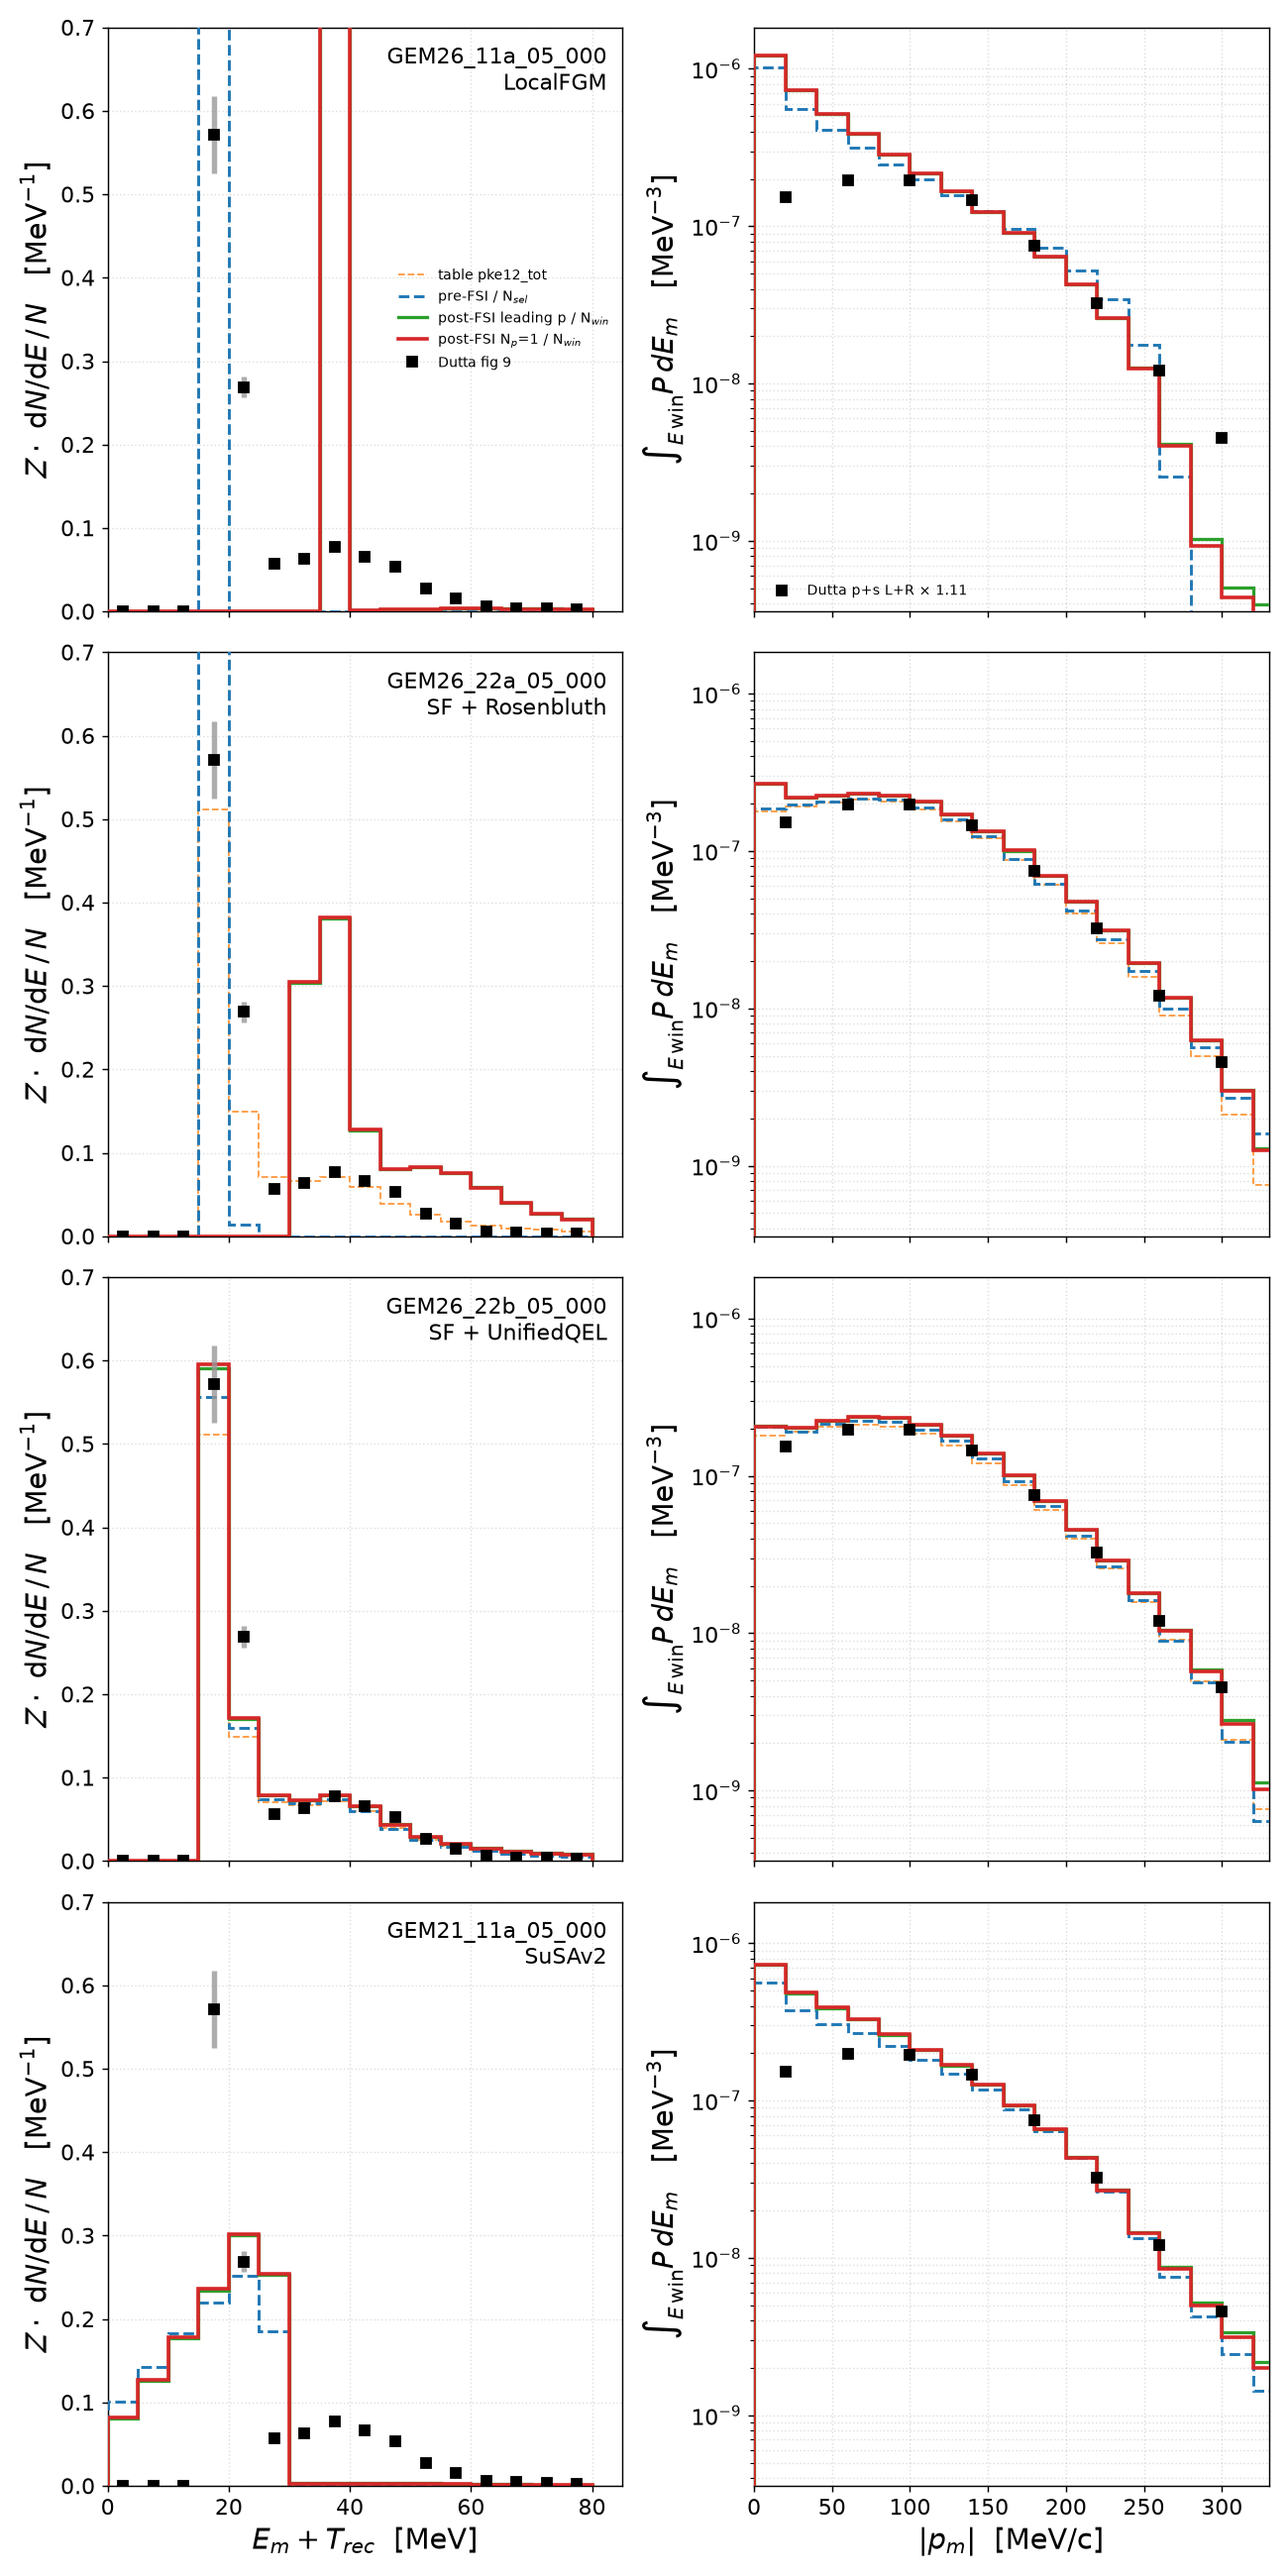
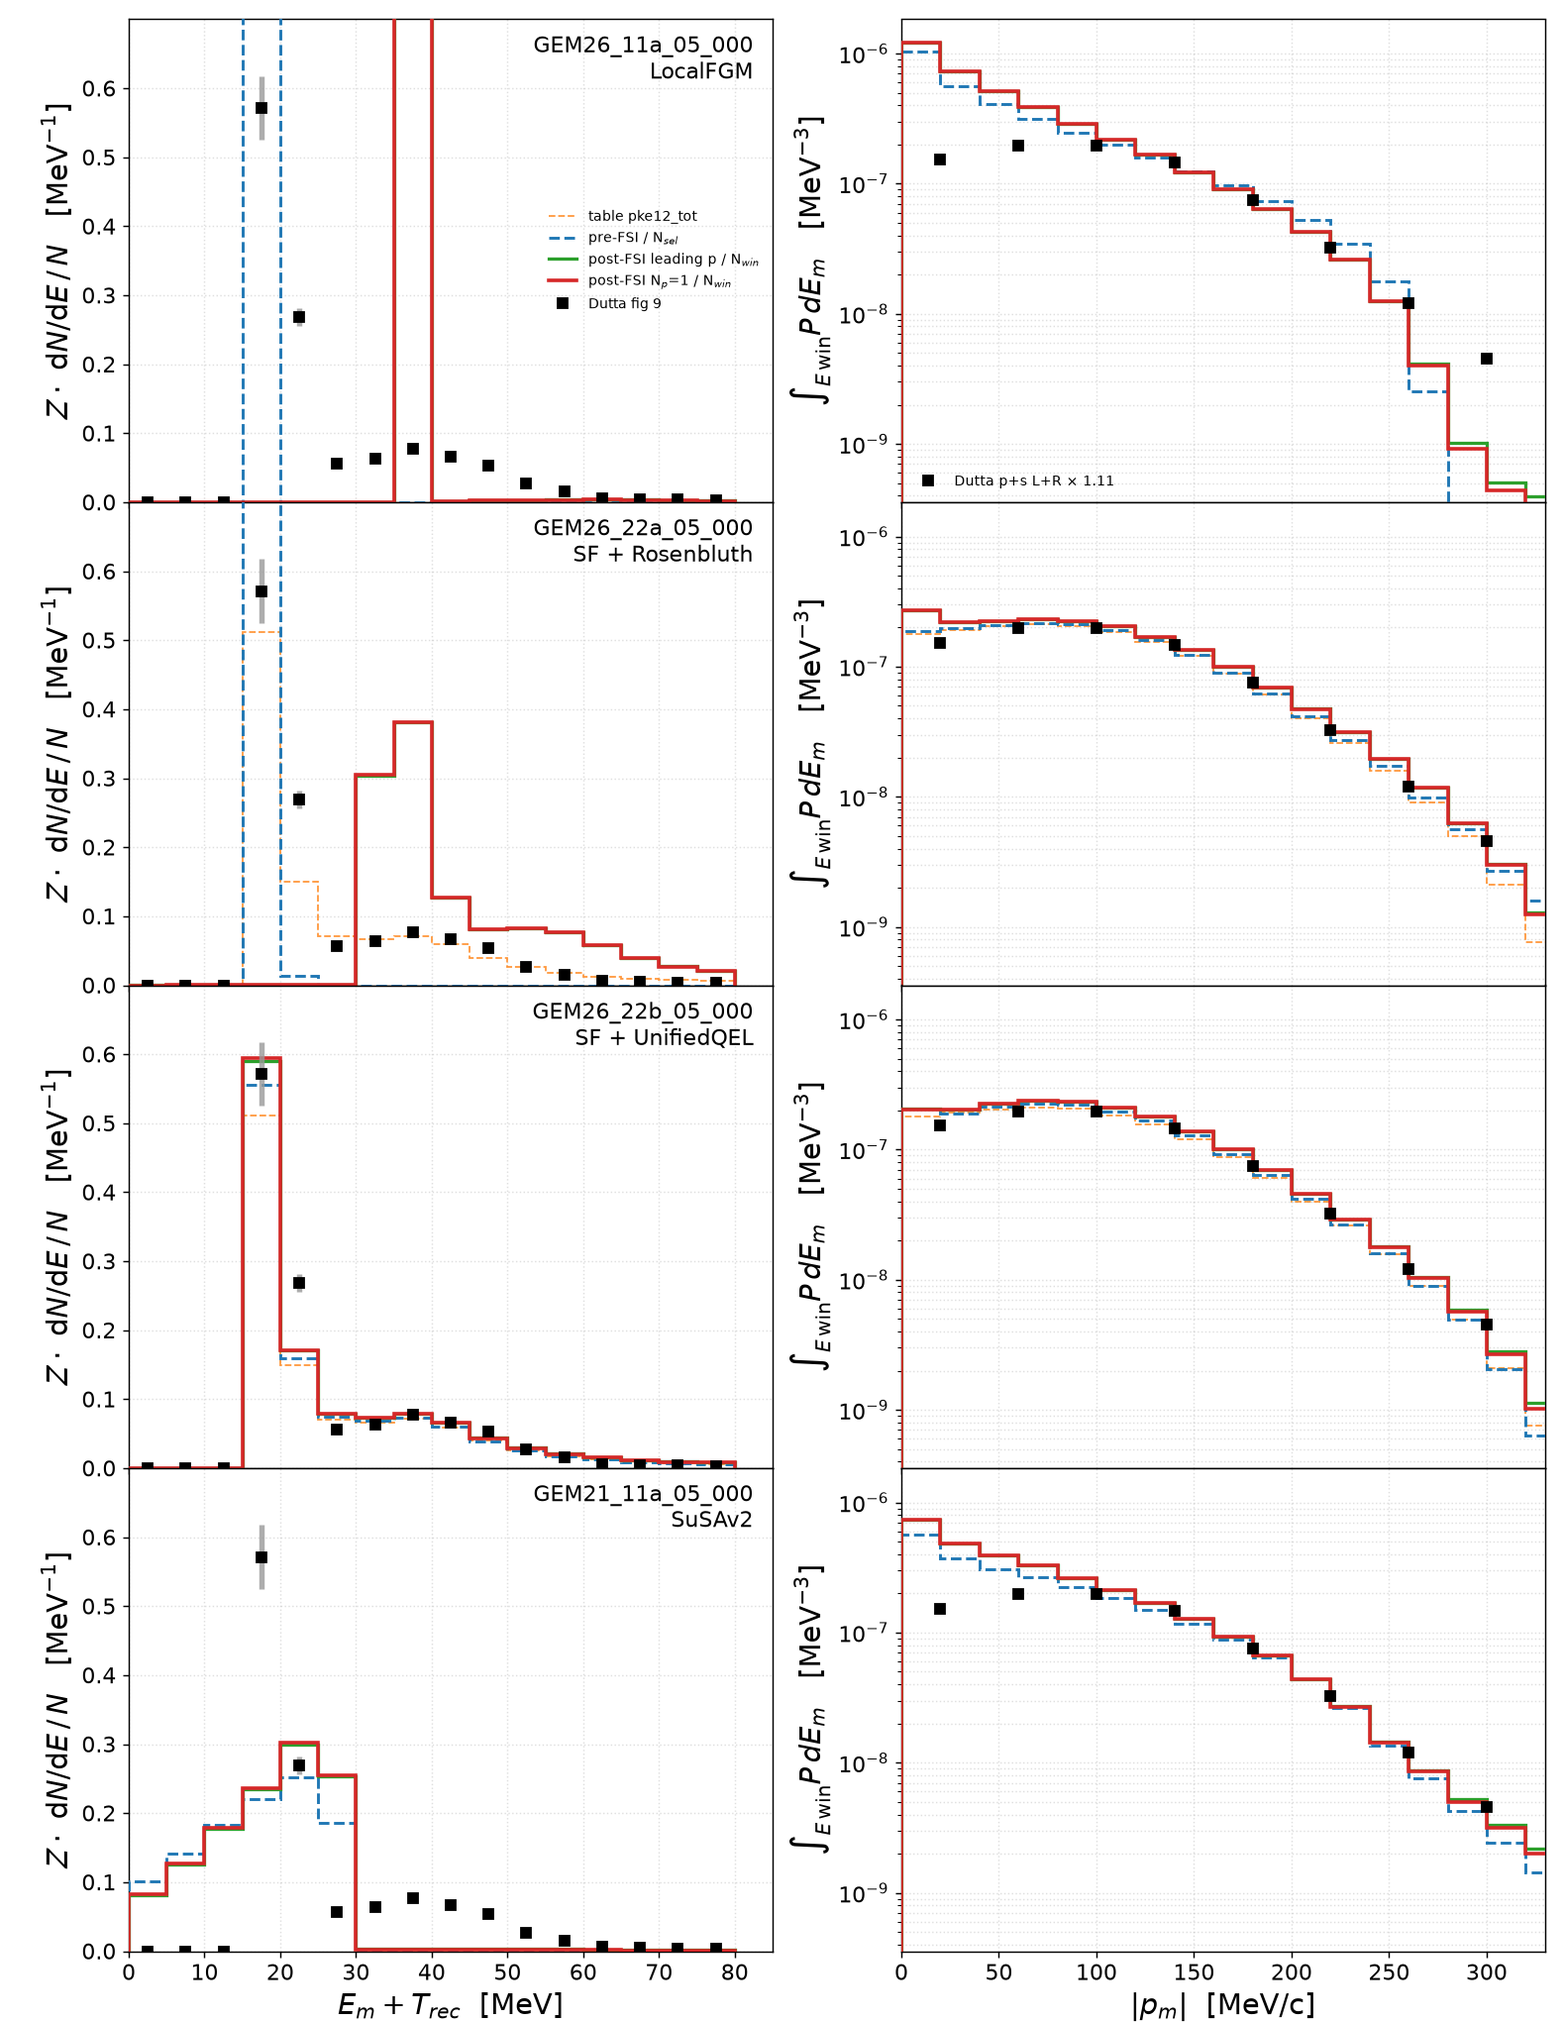
results: v1.0 -- combo grid goes 3:4 panels with touching rows
Grid layout rebuilt with inch-based margins (tight_layout would reopen
the row gap): 5.0x3.75 in panels (h:w = 3:4), hspace = 0 so the four
rows touch. The Em top y tick is pruned (it would collide with the
"0.0" of the panel above at the shared border) with the locator pinned
to the AutoLocator step set -- bare MaxNLocator picked 0.08-sized ticks.

diff --git a/results/template/make_em_folded_pm_sim.py b/results/template/make_em_folded_pm_sim.py
@@ -501,12 +501,15 @@ def main_grid():
     """--combo for ALL FOUR tunes in one figure: a len(TUNE_ORDER) x 2
     grid, one tune per row, left column = E_m spectrum, right column =
     folded |p_m| on the full E window [0, 80) — per row exactly the
-    main_combo curves, normalizations and data. Paper layout: no suptitle
-    and no panel titles (the tune tag sits inside each E_m panel), x tick
-    labels on the bottom row only, and ONE log scale shared by the whole
-    |p_m| column so the rows compare directly."""
+    main_combo curves, normalizations and data. Paper layout: 3:4 (h:w)
+    panels with the rows TOUCHING (hspace = 0), no suptitle and no panel
+    titles (the tune tag sits inside each E_m panel), x tick labels on
+    the bottom row only, and ONE log scale shared by the whole |p_m|
+    column so the rows compare directly."""
     apply_style()
+    import matplotlib.pyplot as plt
     from matplotlib.lines import Line2D
+    from matplotlib.ticker import MaxNLocator
 
     table_stem, table = load_table()
     (dem, dsf, dstat, dtot), em_dlab = dutta_em_target()
@@ -516,7 +519,17 @@ def main_grid():
     yt, kt_edges = table_pm_density(table, E_WIN)
 
     nrows = len(TUNE_ORDER)
-    fig, axes = new_panels(ncols=2, nrows=nrows, sharey=False)
+    # 3:4 (h:w) panels, rows touching: margins fixed in inches and turned
+    # into fractions by hand (tight_layout would reopen the row gap)
+    PW, PH = 5.0, 3.75
+    ML, MR, MT, MB, WGAP = 1.0, 0.15, 0.15, 0.55, 1.0
+    figw = ML + 2 * PW + WGAP + MR
+    figh = MT + nrows * PH + MB
+    fig, ax2d = plt.subplots(nrows, 2, figsize=(figw, figh))
+    fig.subplots_adjust(left=ML / figw, right=1.0 - MR / figw,
+                        bottom=MB / figh, top=1.0 - MT / figh,
+                        wspace=WGAP / PW, hspace=0.0)
+    axes = list(ax2d.ravel())
 
     pm_axes, pm_tops = [], []
     plot_sel = K_EDGES[1:] <= 330.0
@@ -571,6 +584,11 @@ def main_grid():
                    logx=False, logy=False, ymin=None)
         ax_em.set_xlim(0, 85)
         ax_em.set_ylim(0, CFG["em_ymax"])
+        # rows touch: drop the top tick label so it can't collide with
+        # the "0.0" of the panel above at the shared border (steps = the
+        # AutoLocator set, else MaxNLocator picks 0.08-sized ticks here)
+        ax_em.yaxis.set_major_locator(
+            MaxNLocator(steps=[1, 2, 2.5, 5, 10], prune="upper"))
 
         # ---- |p_m| panel (full E window) -----------------------------------
         if tune in TABLE_TUNES:
@@ -624,7 +642,6 @@ def main_grid():
                label=pm_dlab),
     ], fontsize=FS_LEGEND - 4, frameon=False, loc="lower left")
 
-    fig.tight_layout()
     out = OUT_DIR / f"em_folded_pm_sim_combo_grid_{CFG['tlow']}.png"
     fig.savefig(out, dpi=DPI)
     print("wrote", out)

diff --git a/results/prd-analyzer-v1.0/electron_c12_scattering.md b/results/prd-analyzer-v1.0/electron_c12_scattering.md
@@ -350,7 +350,8 @@ input; δ-like E_m curves run off the capped y-scale, their peak being
 
 **All four tunes in one figure** (`--combo --grid`): the four combo
 figures above merged into a single title-less 8-panel grid (2 columns ×
-4 rows) — one tune per row in the table's order, E_m in the left column,
+4 rows, 3:4 h:w panels, the rows touching) — one tune per row in the
+table's order, E_m in the left column,
 folded |p_m| (E_m 0–80 MeV, gap-filled data) in the right; per row
 exactly the combo curves, normalizations and data, with the tune tag
 inside each E_m panel instead of a title. The |p_m| column shares one
